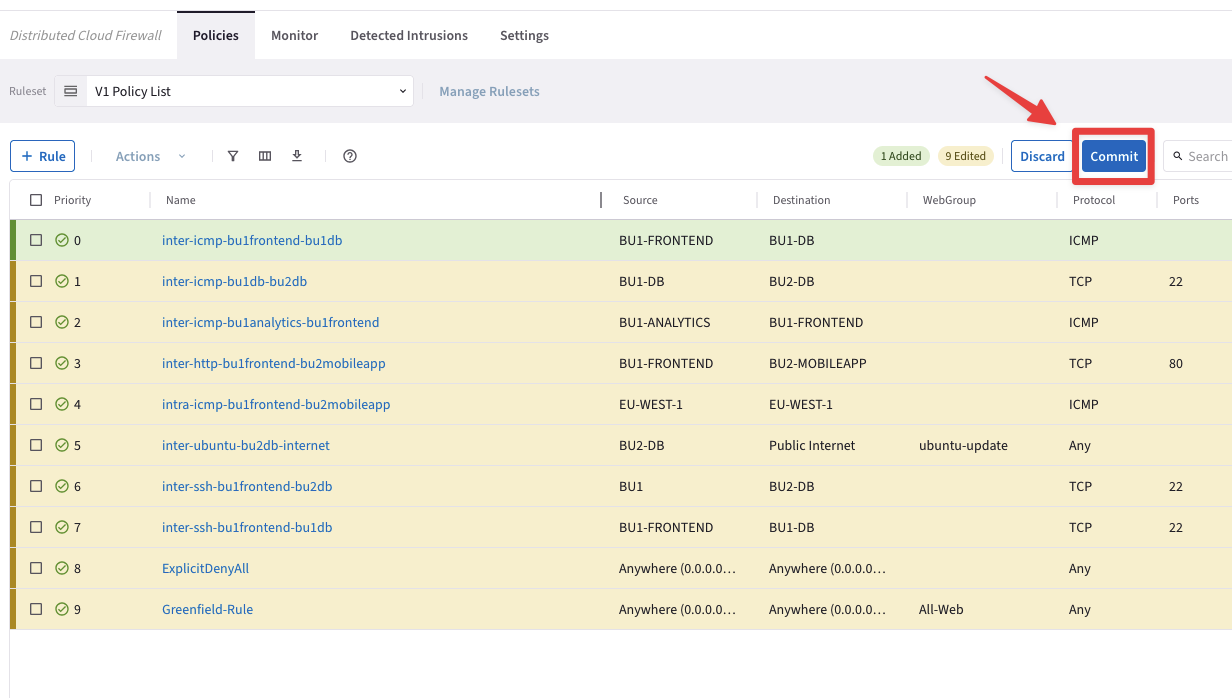
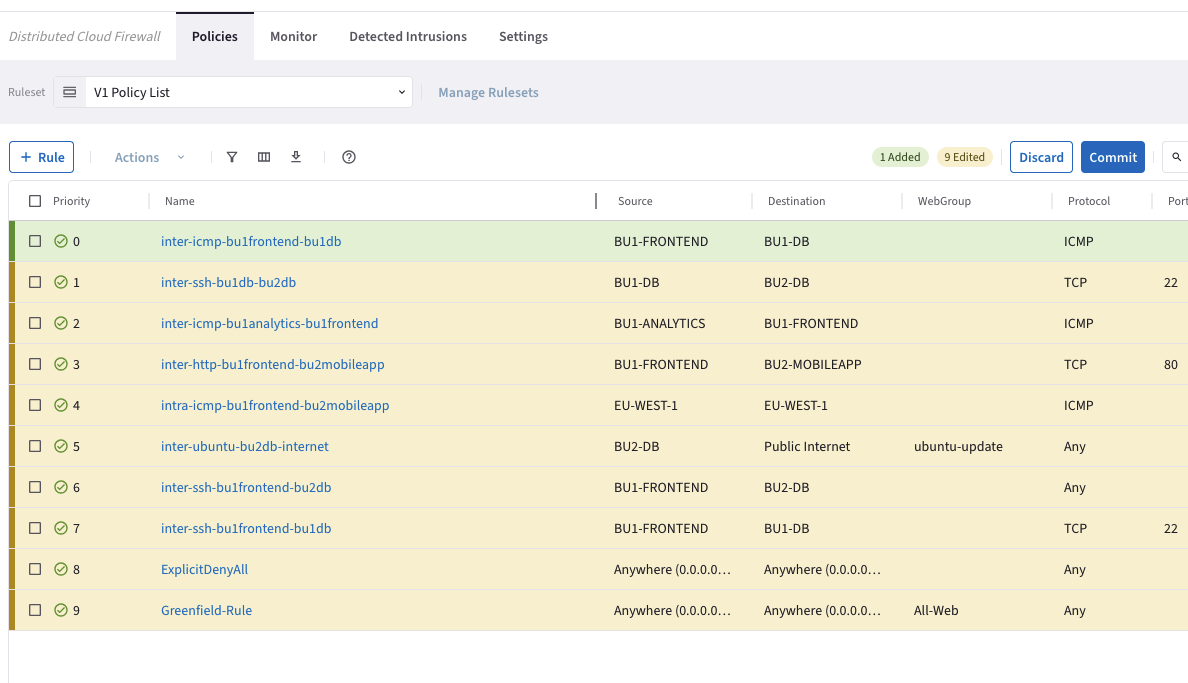
update for ops

diff --git a/ace_ops/docs/lab8.md b/ace_ops/docs/lab8.md
@@ -447,7 +447,7 @@ Do not forget to click on **Save In Drafts**.
 ---
 align: center
 ---
-inter-icmp-bu1db-bu2db
+inter-ssh-bu1db-bu2db
 ```
 
 Click on **Commit**.
